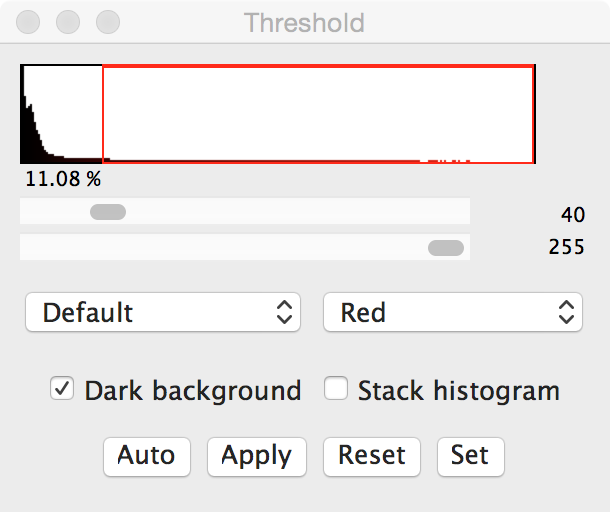
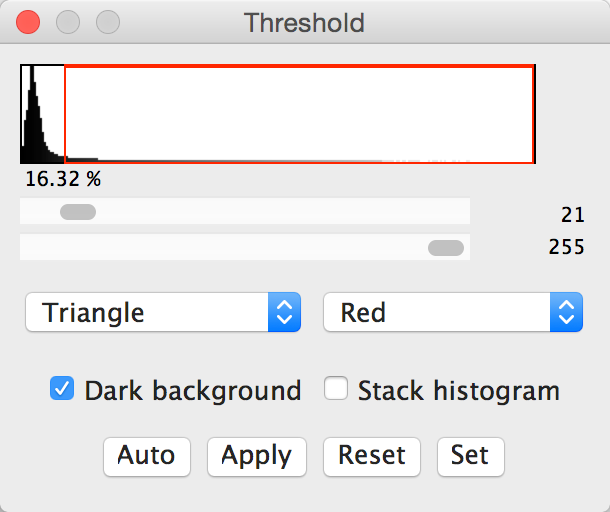
Update demo 1 material with more pictures and edits.

diff --git a/imagej/demo1.md b/imagej/demo1.md
@@ -1,9 +1,11 @@
-# Stain and Fluorescence measurement
+# Fluorescent stain measurement
 Fluorescent wide field images of three fluorescent markers/stains:
 
 * Blue: DAPI nuclear marker
 * Red: Marker for wounding
 * Green: Cytoplasmic marker for healthy cells.
+
+![](../images/demo1/fluoro_01_crop.png)
 
 ---
 
@@ -28,15 +30,19 @@ Calibration are usually encoded in the image metadata in modern microscopes; how
 
 `Image → Colour → Split Channels`
 
+![](../images/demo1/fluoro_01_crop_red.png)
+
 ---
 
 ## Filtering
 
-<p>4. Apply a Gaussian Blur with a sigma of 2 px to reduce noise.</p>
+<p>4. Apply a Gaussian Blur with a sigma of 1 px to reduce noise.</p>
 
 `Process → Filters → Gaussian Blur...`
 
-A Gaussian blur filter helps to reduce noise that is typically present in images acquired with highly sensitive cameras.
+A Gaussian blur filter helps to smooth noise that is typically present in images acquired with highly sensitive cameras.
+
+![](../images/demo1/fluoro_01_blur.png)
 
 ---
 
@@ -49,6 +55,8 @@ A Gaussian blur filter helps to reduce noise that is typically present in images
 ![](../images/demo1/threshold.png)
 
 Thresholding segments the images based on pixel intensity. Thresholds can be set manually or automatically via algorithms that examine the image histogram.
+
+![](../images/demo1/fluoro_01_crop_red_blur_bin.png)
 
 ---
 
